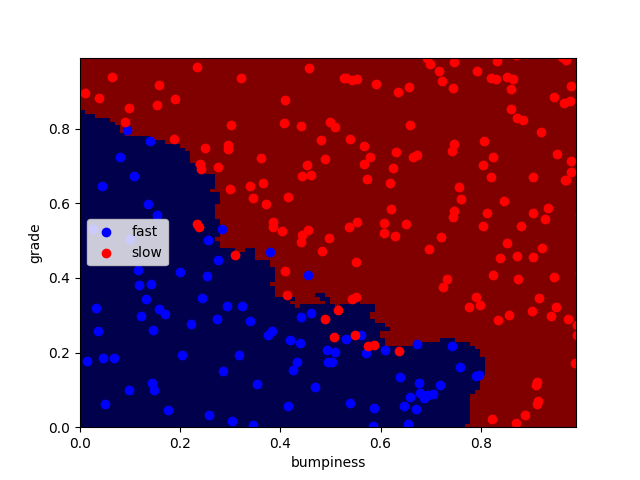
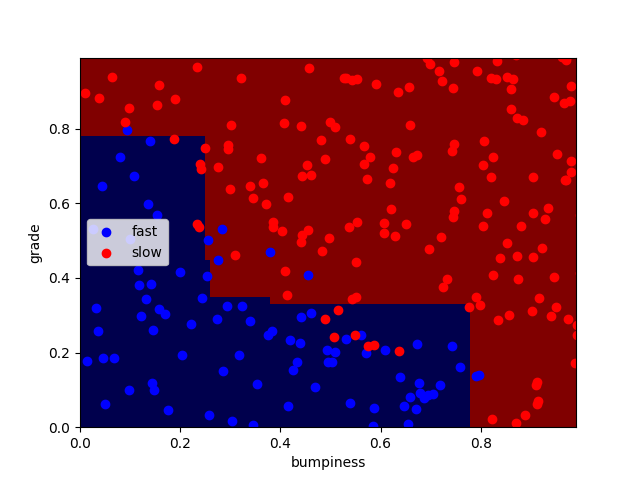
working RandomForestClassifier
accuracy is 0.92. 
can be improved with playing with parameters.

diff --git a/choose_your_own/random_forest.py b/choose_your_own/random_forest.py
@@ -1,0 +1,52 @@
+#!/usr/bin/python
+
+import matplotlib.pyplot as plt
+from prep_terrain_data import makeTerrainData
+from class_vis import prettyPicture
+
+features_train, labels_train, features_test, labels_test = makeTerrainData()
+
+
+### the training data (features_train, labels_train) have both "fast" and "slow"
+### points mixed together--separate them so we can give them different colors
+### in the scatterplot and identify them visually
+grade_fast = [features_train[ii][0] for ii in range(0, len(features_train)) if labels_train[ii]==0]
+bumpy_fast = [features_train[ii][1] for ii in range(0, len(features_train)) if labels_train[ii]==0]
+grade_slow = [features_train[ii][0] for ii in range(0, len(features_train)) if labels_train[ii]==1]
+bumpy_slow = [features_train[ii][1] for ii in range(0, len(features_train)) if labels_train[ii]==1]
+
+
+#### initial visualization
+plt.xlim(0.0, 1.0)
+plt.ylim(0.0, 1.0)
+plt.scatter(bumpy_fast, grade_fast, color = "b", label="fast")
+plt.scatter(grade_slow, bumpy_slow, color = "r", label="slow")
+plt.legend()
+plt.xlabel("bumpiness")
+plt.ylabel("grade")
+plt.show()
+################################################################################
+
+
+### your code here!  name your classifier object clf if you want the
+### visualization code (prettyPicture) to show you the decision boundary
+
+from sklearn.ensemble import RandomForestClassifier
+from sklearn.metrics import accuracy_score
+
+clf = RandomForestClassifier(max_depth=2, random_state=0)
+clf.fit(features_train, labels_train)
+
+y_pred = clf.predict(features_test)
+
+accuracy = accuracy_score(labels_test, y_pred)
+print("accuracy with RandomForestClassifier neighbours :",accuracy)
+#('accuracy with k neighbours :', 0.936) *n_neighbors=3
+#('accuracy with k neighbours :', 0.92)  *n_neighbors=5
+#('accuracy with k neighbours :', 0.944) *n_neighbors=8
+
+
+try:
+    prettyPicture(clf, features_test, labels_test)
+except NameError:
+    pass
